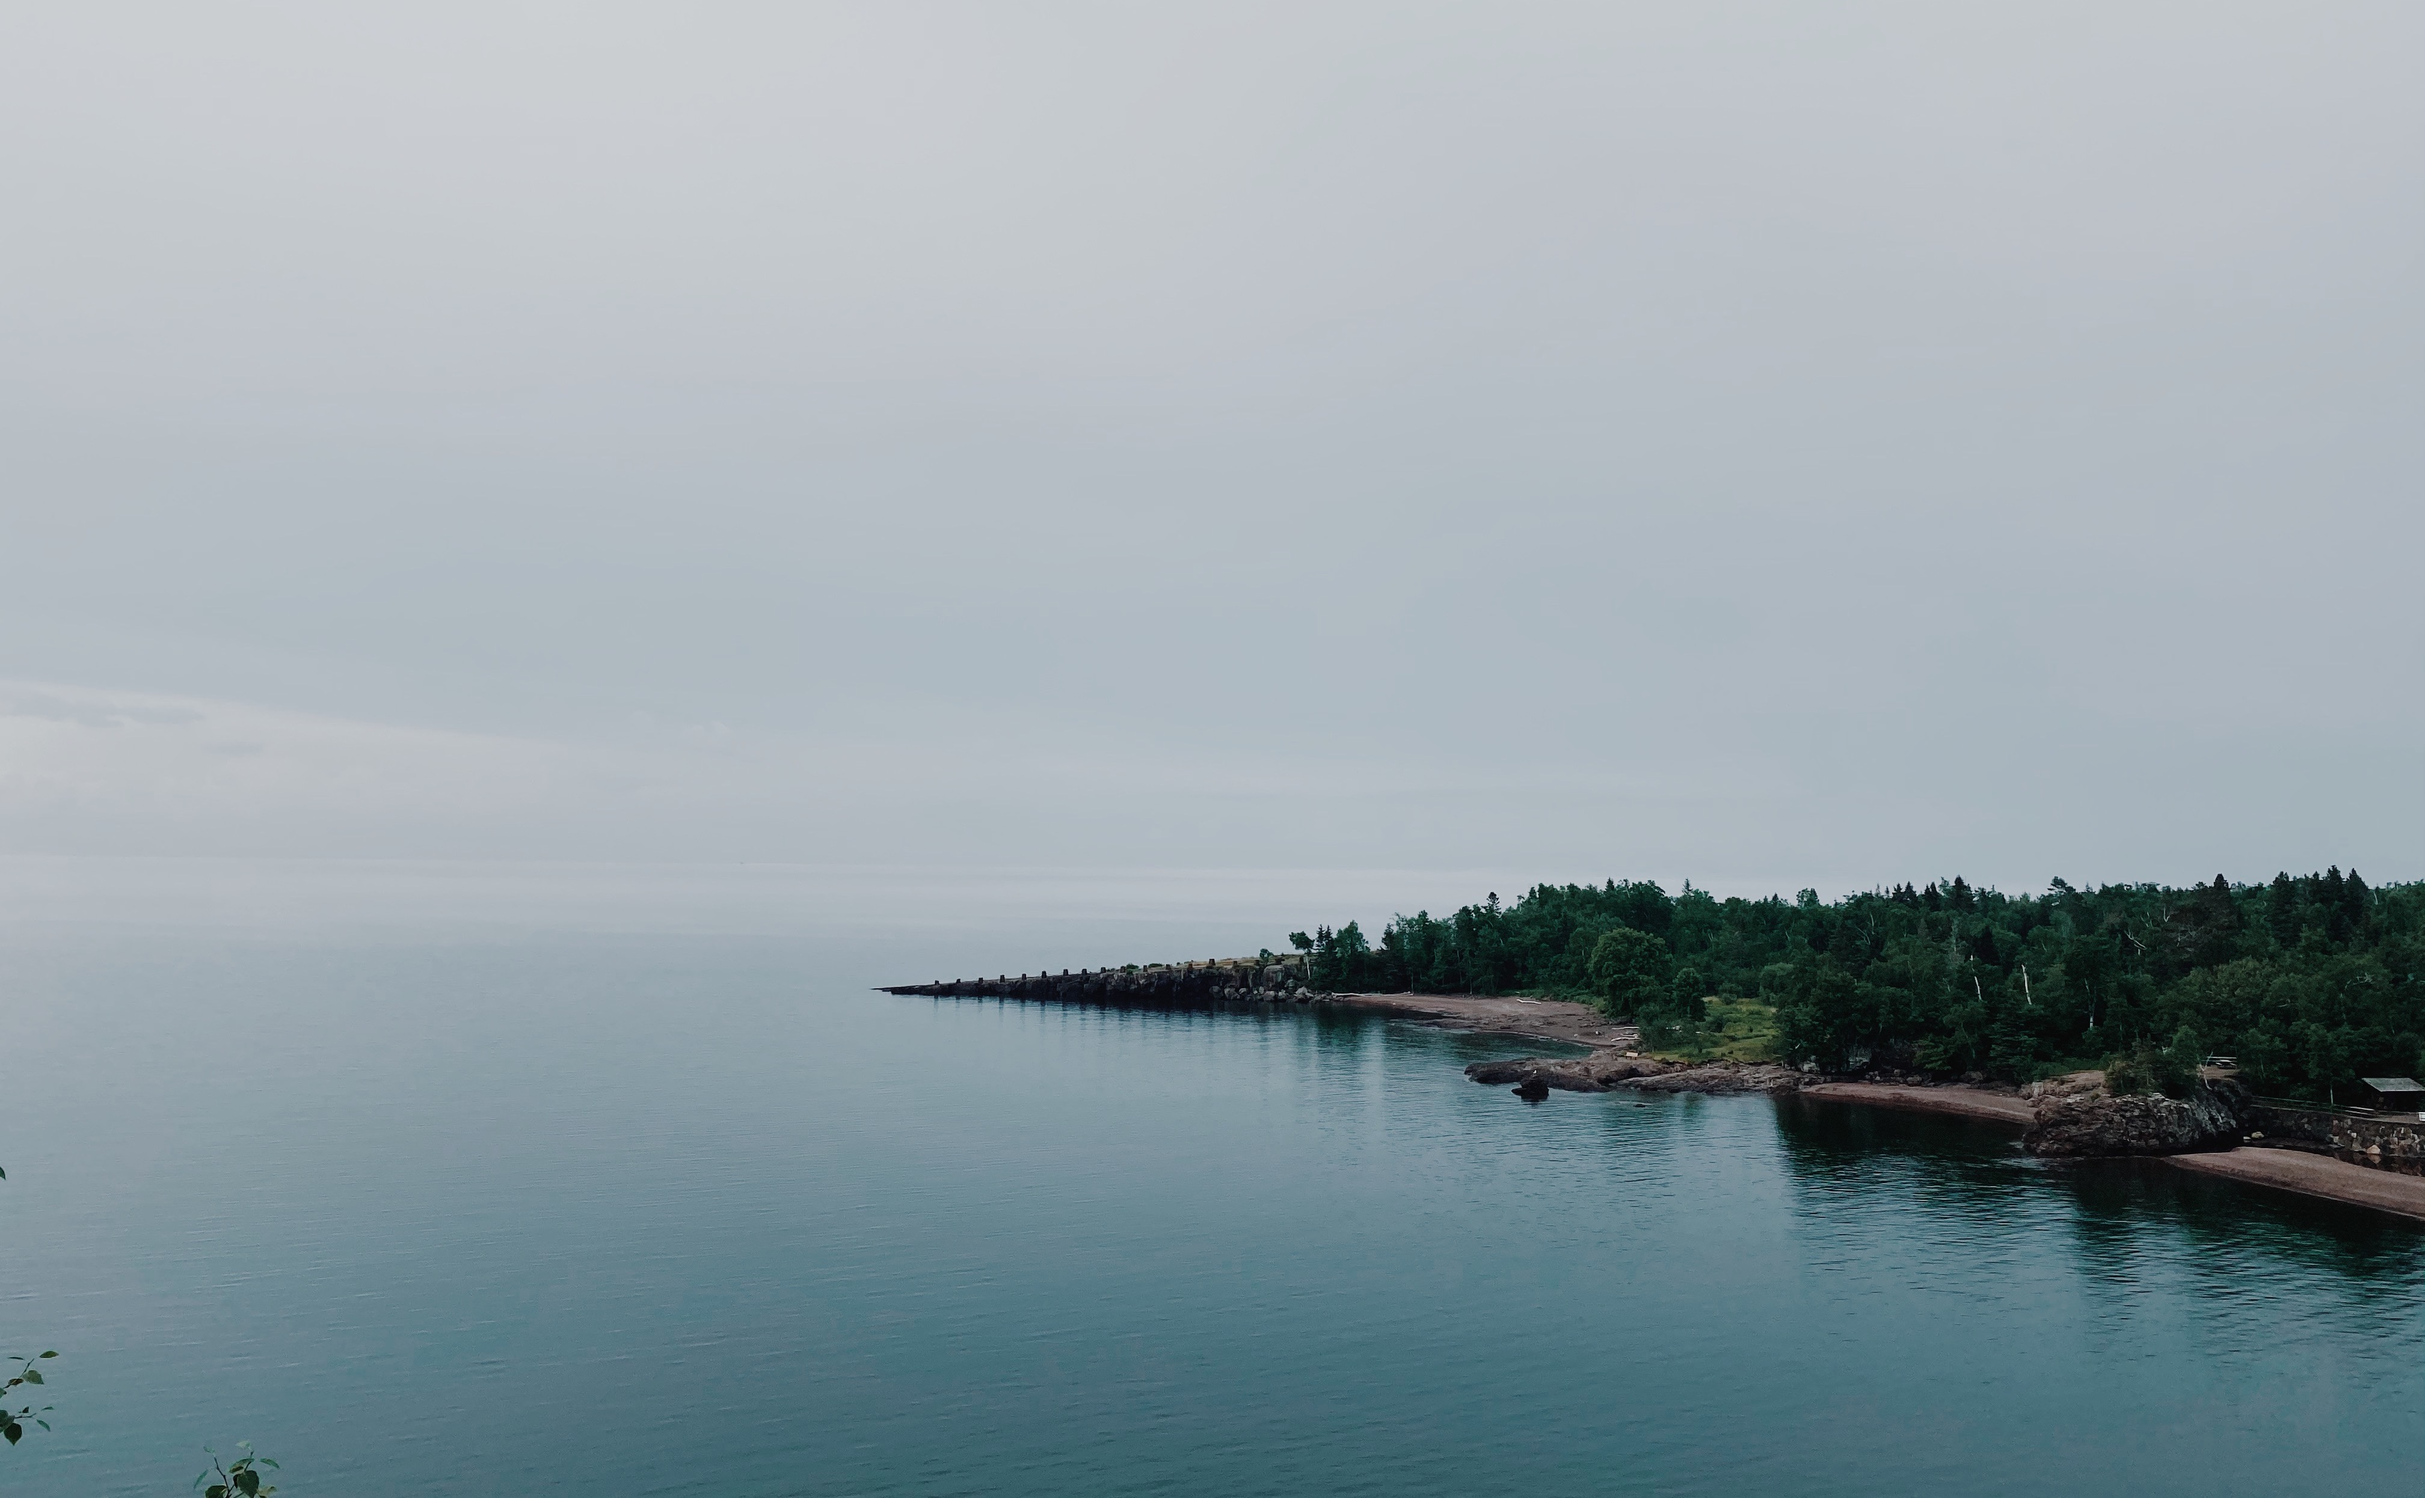
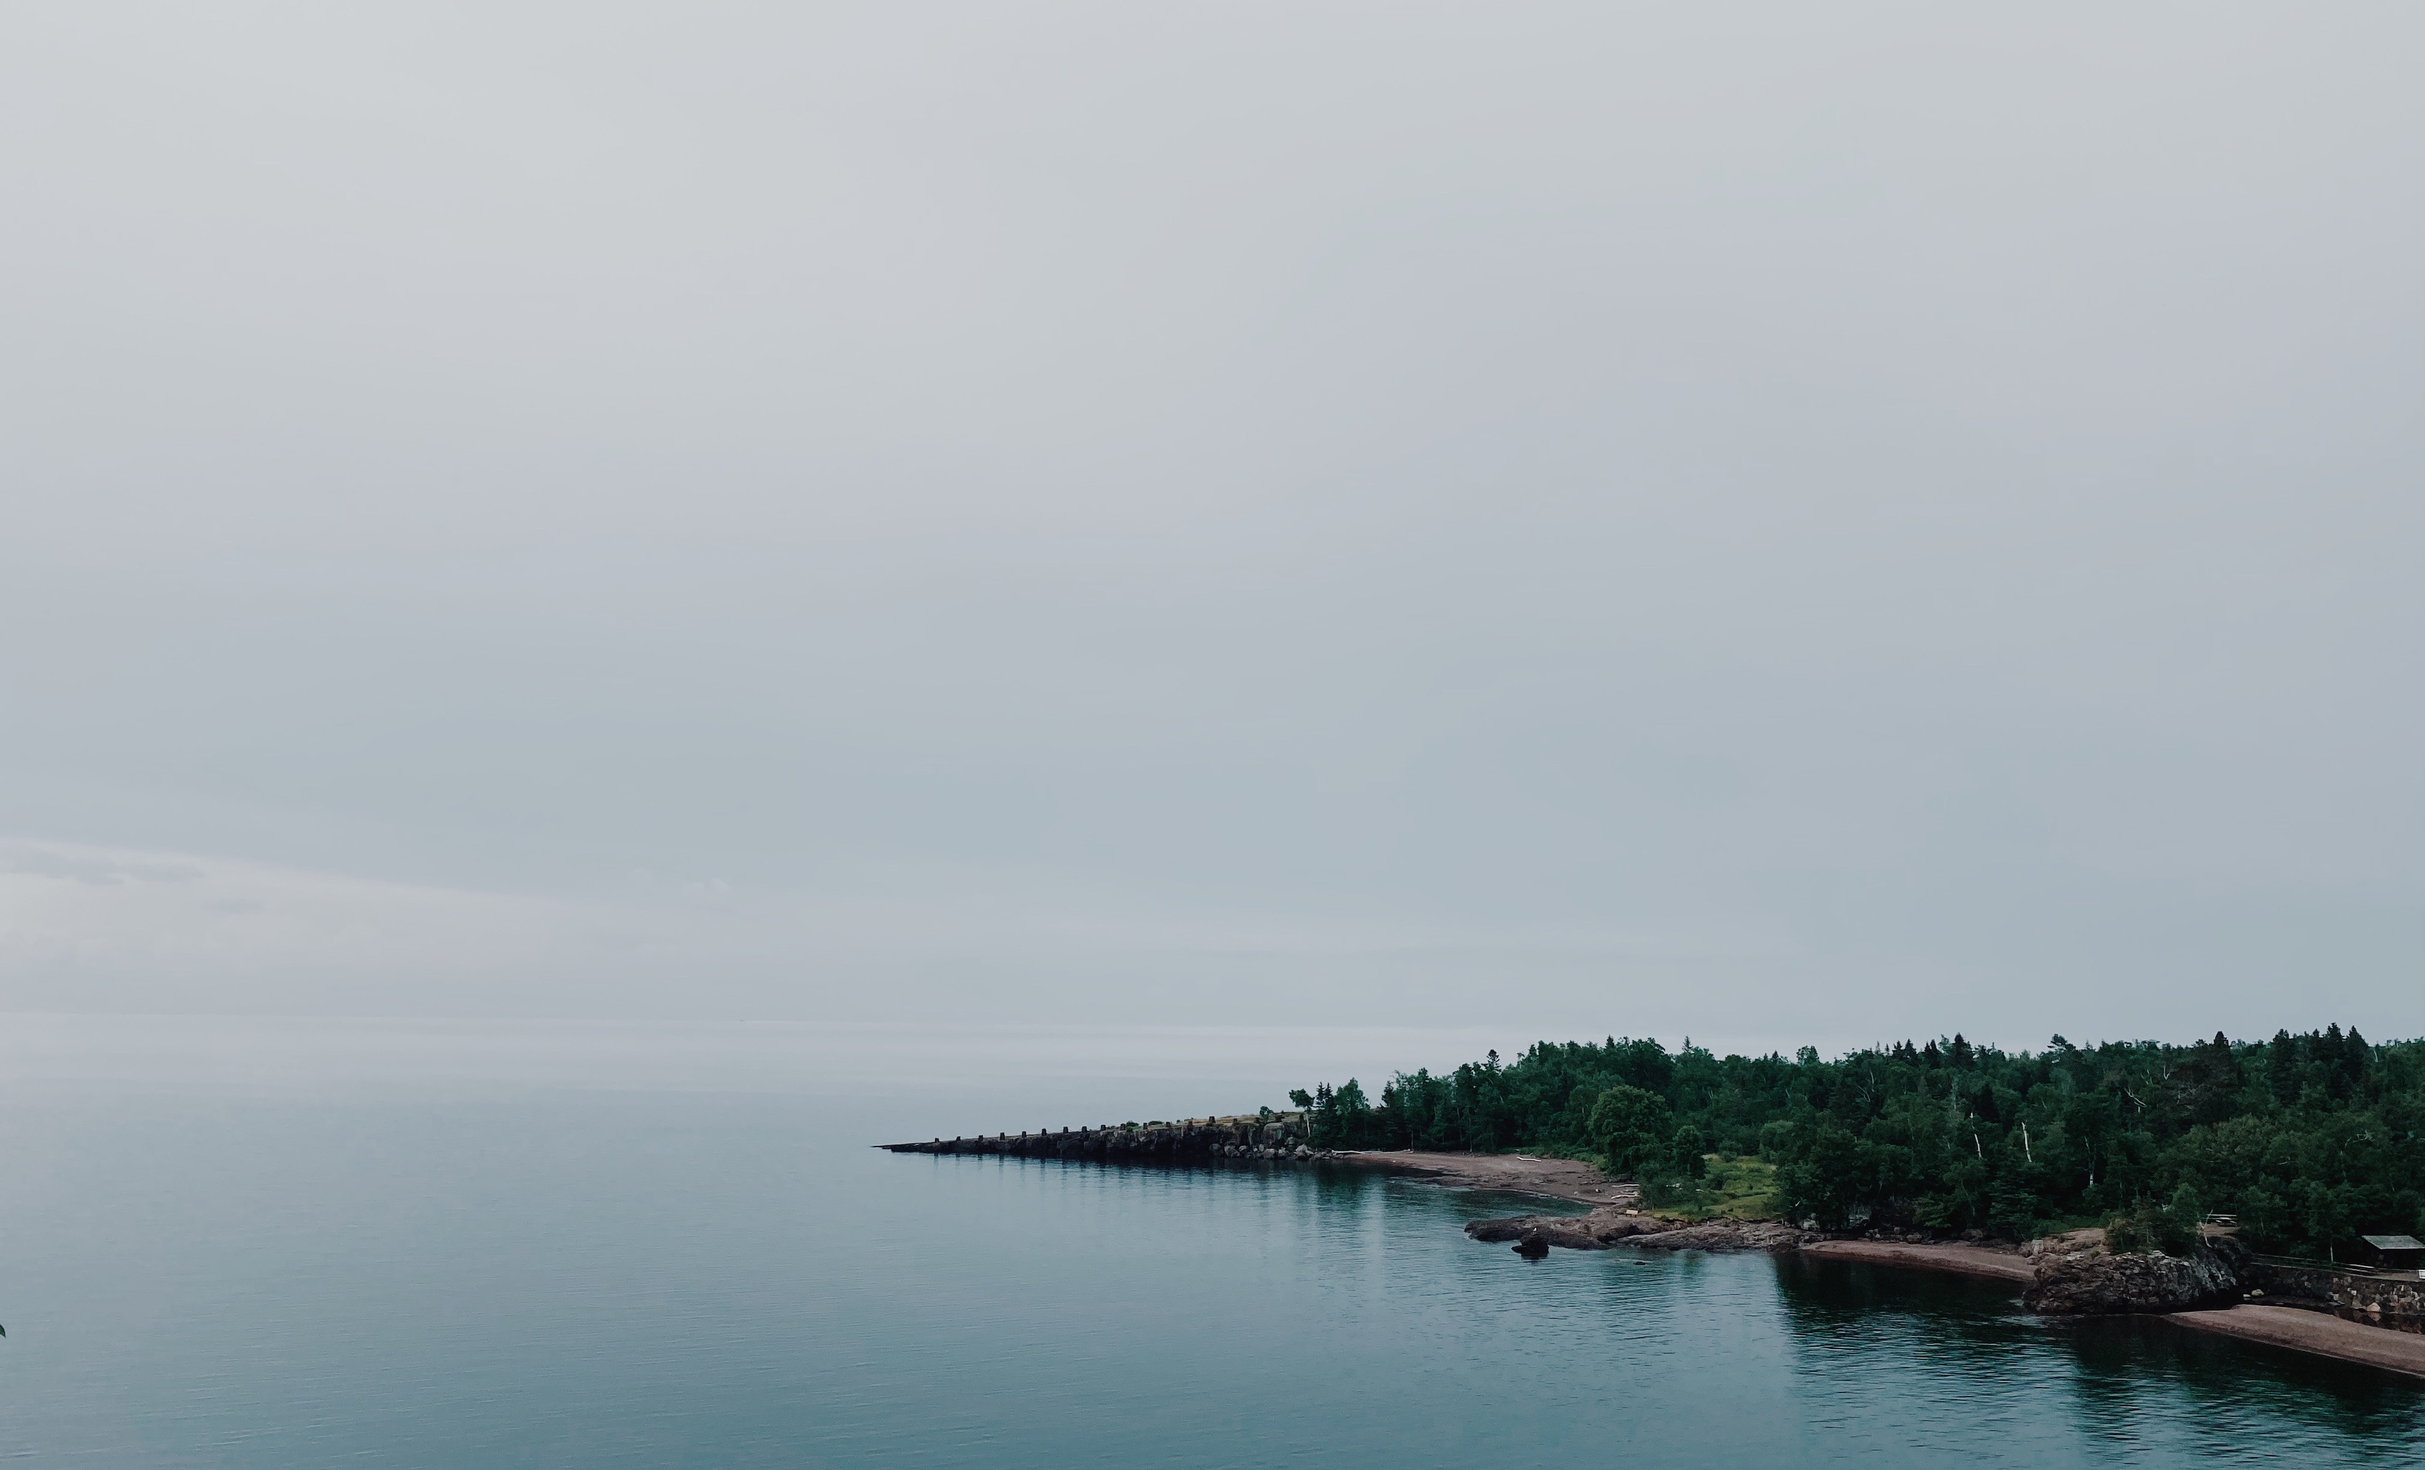
finishing touches

diff --git a/personal-website/src/components/Header/Header.module.css b/personal-website/src/components/Header/Header.module.css
@@ -1,17 +1,16 @@
-.header_background{
-    background-image: url('../../north-shore.jpg');
-    background-size: cover ;
-
+.header_background {
+    background-image: url("../../north-shore.jpg");
+    background-size: cover;
+    background-position: right bottom;
 }
-
 
 .title_section {
     background-color: transparent;
-    min-height: 70vh;
+    min-height: 85vh;
     display: flex;
     flex-direction: column;
     align-items: center;
-    padding-top: 80px;
+    padding-top: 100px;
     /* justify-content: center; */
     font-size: calc(10px + 2vmin);
     color: black;
@@ -29,10 +28,7 @@
 .navbar_bar {
     padding-bottom: 50px;
     padding-top: 20px;
-    background-image: 
-    linear-gradient(to top, 
-    rgba(255,255,255, 0), 
-    rgba(128, 128, 128, 0.466) 100%);;
+    background-image: linear-gradient(to top, rgba(255, 255, 255, 0), rgba(128, 128, 128, 0.664) 100%);
 }
 
 .navbar_text {

diff --git a/personal-website/src/App.tsx b/personal-website/src/App.tsx
@@ -7,6 +7,7 @@ import Resume from "./components/Resume/Resume";
 import Skills from "./components/Skills/Skills";
 import Projects from "./components/Projects/Projects";
 import Header from "./components/Header/Header";
+import Footer from "./components/Footer/Footer";
 
 
 function App() {
@@ -27,6 +28,9 @@ function App() {
       </section>
       <section id="projects" className="projects-section">
         <Projects></Projects>
+      </section>
+      <section id="footer" className="footer-section">
+        <Footer></Footer>
       </section>
     </div>
   );

diff --git a/personal-website/src/components/Footer/Footer.test.tsx b/personal-website/src/components/Footer/Footer.test.tsx
@@ -1,0 +1,14 @@
+import React from 'react';
+import { render, screen } from '@testing-library/react';
+import '@testing-library/jest-dom/extend-expect';
+import Footer from './Footer';
+
+describe('<Footer />', () => {
+  test('it should mount', () => {
+    render(<Footer />);
+    
+    const footer = screen.getByTestId('Footer');
+
+    expect(footer).toBeInTheDocument();
+  });
+});

diff --git a/personal-website/src/components/Footer/Footer.module.css b/personal-website/src/components/Footer/Footer.module.css
@@ -1,0 +1,12 @@
+.Footer {
+    /* min-height: 80vh; */
+    background-image: url("../../sunset.jpg");
+    background-size: cover;
+    background-position: right bottom;
+    background-color: aliceblue;
+}
+
+.footer_gradient {
+    min-height: 90vh;
+    background-image: linear-gradient(to top, rgba(255, 255, 255, 0), #5e5e5e 100%);
+}

diff --git a/personal-website/src/components/Footer/Footer.tsx b/personal-website/src/components/Footer/Footer.tsx
@@ -1,0 +1,10 @@
+import React from 'react';
+import styles from './Footer.module.css';
+
+const Footer = () => (
+  <div className={styles.Footer} >
+    <div className={styles.footer_gradient}></div>
+  </div>
+);
+
+export default Footer;

diff --git a/personal-website/src/App.css b/personal-website/src/App.css
@@ -50,7 +50,7 @@
     display: flex;
     flex-direction: column;
     text-align: center;
-    padding-bottom: 300px;
+    padding-bottom: 100px;
     padding-top: 80px;
 }
 
